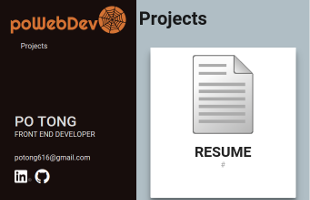
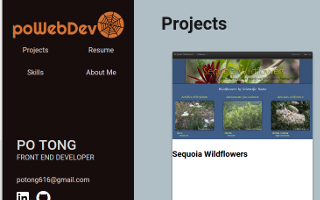
Updated resume-projects

diff --git a/js/data.js b/js/data.js
@@ -12,7 +12,7 @@ var bio = {
 		'location': 'Richmond, CA'
 	},
 	'welcomeMessage': 'Happy feast of winter veil',
-	'skills': ['Python', 'HTML5', 'CSS3', 'JS', 'jQuery', 'AJAX', 'Jasmine', 'Java', 'SQLite', 'PostgreSQL', 'Google App Engine', 'AWS', 'Flask', 'Django', 'OAuth', 'Linux', 'Apache', 'Polymer', 'bootstrap', 'API', 'GIMP', 'Inkscape', 'Git', 'Android'],
+	'skills': ['Python', 'HTML5', 'CSS3', 'JavaScript', 'jQuery', 'AJAX', 'Jasmine', 'Java', 'SQLite', 'PostgreSQL', 'Google App Engine', 'AWS', 'Flask', 'Django', 'OAuth', 'Linux', 'Apache', 'Polymer', 'bootstrap', 'API', 'GIMP', 'Inkscape', 'Git', 'Android'],
 	'biopic': 'images/fry.jpg'
 };
 
@@ -219,25 +219,41 @@ work.display = function() {
 var projects = {};
 projects.projects = [
 	{
-		'title': 'Portfolio Page',
-		'dates': 2016,
-		'description': 'My portfolio page',
+		'title': 'Sequoia Wildflowers',
+		'dates': 'Work in progress',
+		'description': 'A website for cataloging wildflowers one may find in the Sequoia National Park. The website was originally a static website and the creator has to update the site manually when new flowers are added. The goal of the project was to convert it into a database backed dynamic website to ease the process of updating the site. The framework of choice for this project is Django and data are stored using SQLite. Current status of the site: The back-end is mostly done, and the next major focus is the layout and to make the site responsive. An API for the site will be implemented in the future. The website is currently hosted on AWS using Apache',
+		'images': ['images/wildflowers.png'],
+		'icon': 'images/wildflowers-sm.png',
+		'url': 'http://ec2-52-32-25-251.us-west-2.compute.amazonaws.com/webapp/wildflowers/'
+	},
+	{
+		'title': 'My Portfolio Site',
+		'dates': 'January 2016',
+		'description': "My portfolio website. This was created as one of the projects from Udacity's Front-end Web Developer Nanodegree. The main goal of the project was to learn the basics of creating a responsive website. The tools used to create this website are HTML, CSS, and Javascript. Polymer was also used to create custom elements for reusability (the cards for displaying projects and the website logo). Bower was used for package management. New features are constantly being added as I learn/research new languages, libraries, and frameworks.",
 		'images': ['images/portfolio.png'],
 		'icon': 'images/web.svg',
 		'url': 'http://powebdev.github.io/'
 	},
 	{
+		'title': 'Interactive Resume',
+		'dates': 'January 2016',
+		'description': "A web version of my resume. This was created as one of the projects from Udacity's Front-end Web Developer Nanodegree. The skeleton of the webpage was first created using HTML and the information was then generated dynamically using JavaSCript. ALl resume information was contained within its own file which allows easy update of the resume. My portfolio page",
+		'images': ['images/resume.png'],
+		'icon': 'images/resume-sm.png',
+		'url': 'http://powebdev.github.io/interactive_resume/'
+	},
+	{
 		'title': 'Video Game Catalog',
-		'dates': 2015,
-		'description': 'Project 3 for Udacity Full Stack Nanodegree. A database backed website for video game cataloging',
+		'dates': 'December 2015',
+		'description': "A database backed website for cataloging video games. This was created as one of the projects from Udacity's Full Stack Web Developer Nanodegree. Python/Flask was used for the back-end and Bootstrap for the front-end portion. SQLite/SQLAlchemy was used for database management. OAuth 2.0 was also utilize to allow users to login and perform CRUD functionalities on entries belonging to them.",
 		'images': ['images/vgdb.png'],
 		'icon': 'images/vgdb-sm.png',
 		'url': 'http://powebdev.github.io/catalog_project/'
 	},
 	{
 		'title': 'Conference Organization App',
-		'dates': 2015,
-		'description': 'Project 4 for Udacity Full Stack Nanodegree. An app built using Google App Engine which allows user to organize and signup for conferences',
+		'dates': 'December 2015',
+		'description': "A web app which allows users to organize and signup for conferences. This was one of the projects from Udacity's Full Stack Web Developer Nanodegree. The main purpose of this project was to learn how to use Google App Engine to create/host scalable apps. Python was used to write the API endpoints. Google's Cloud Datastore, which is a NoSQL database, was used for data storage. Google+ was utilize to allow users to login and perform CRUD functionalities on entries belonging to them.",
 		'images': ['images/conference.png'],
 		'icon': 'images/conference-sm.png',
 		'url': 'http://powebdev.github.io/p4_conference/'

diff --git a/index.html b/index.html
@@ -36,6 +36,11 @@
 							<p class="nav-link">Skills</p>
 						</a>
 					</div>
+					<div class="box" id="link">
+						<a href="index.html">
+							<p class="nav-link">About Me</p>
+						</a>
+					</div>
 				</div>
 
 				<div class="container" id="my-info">
